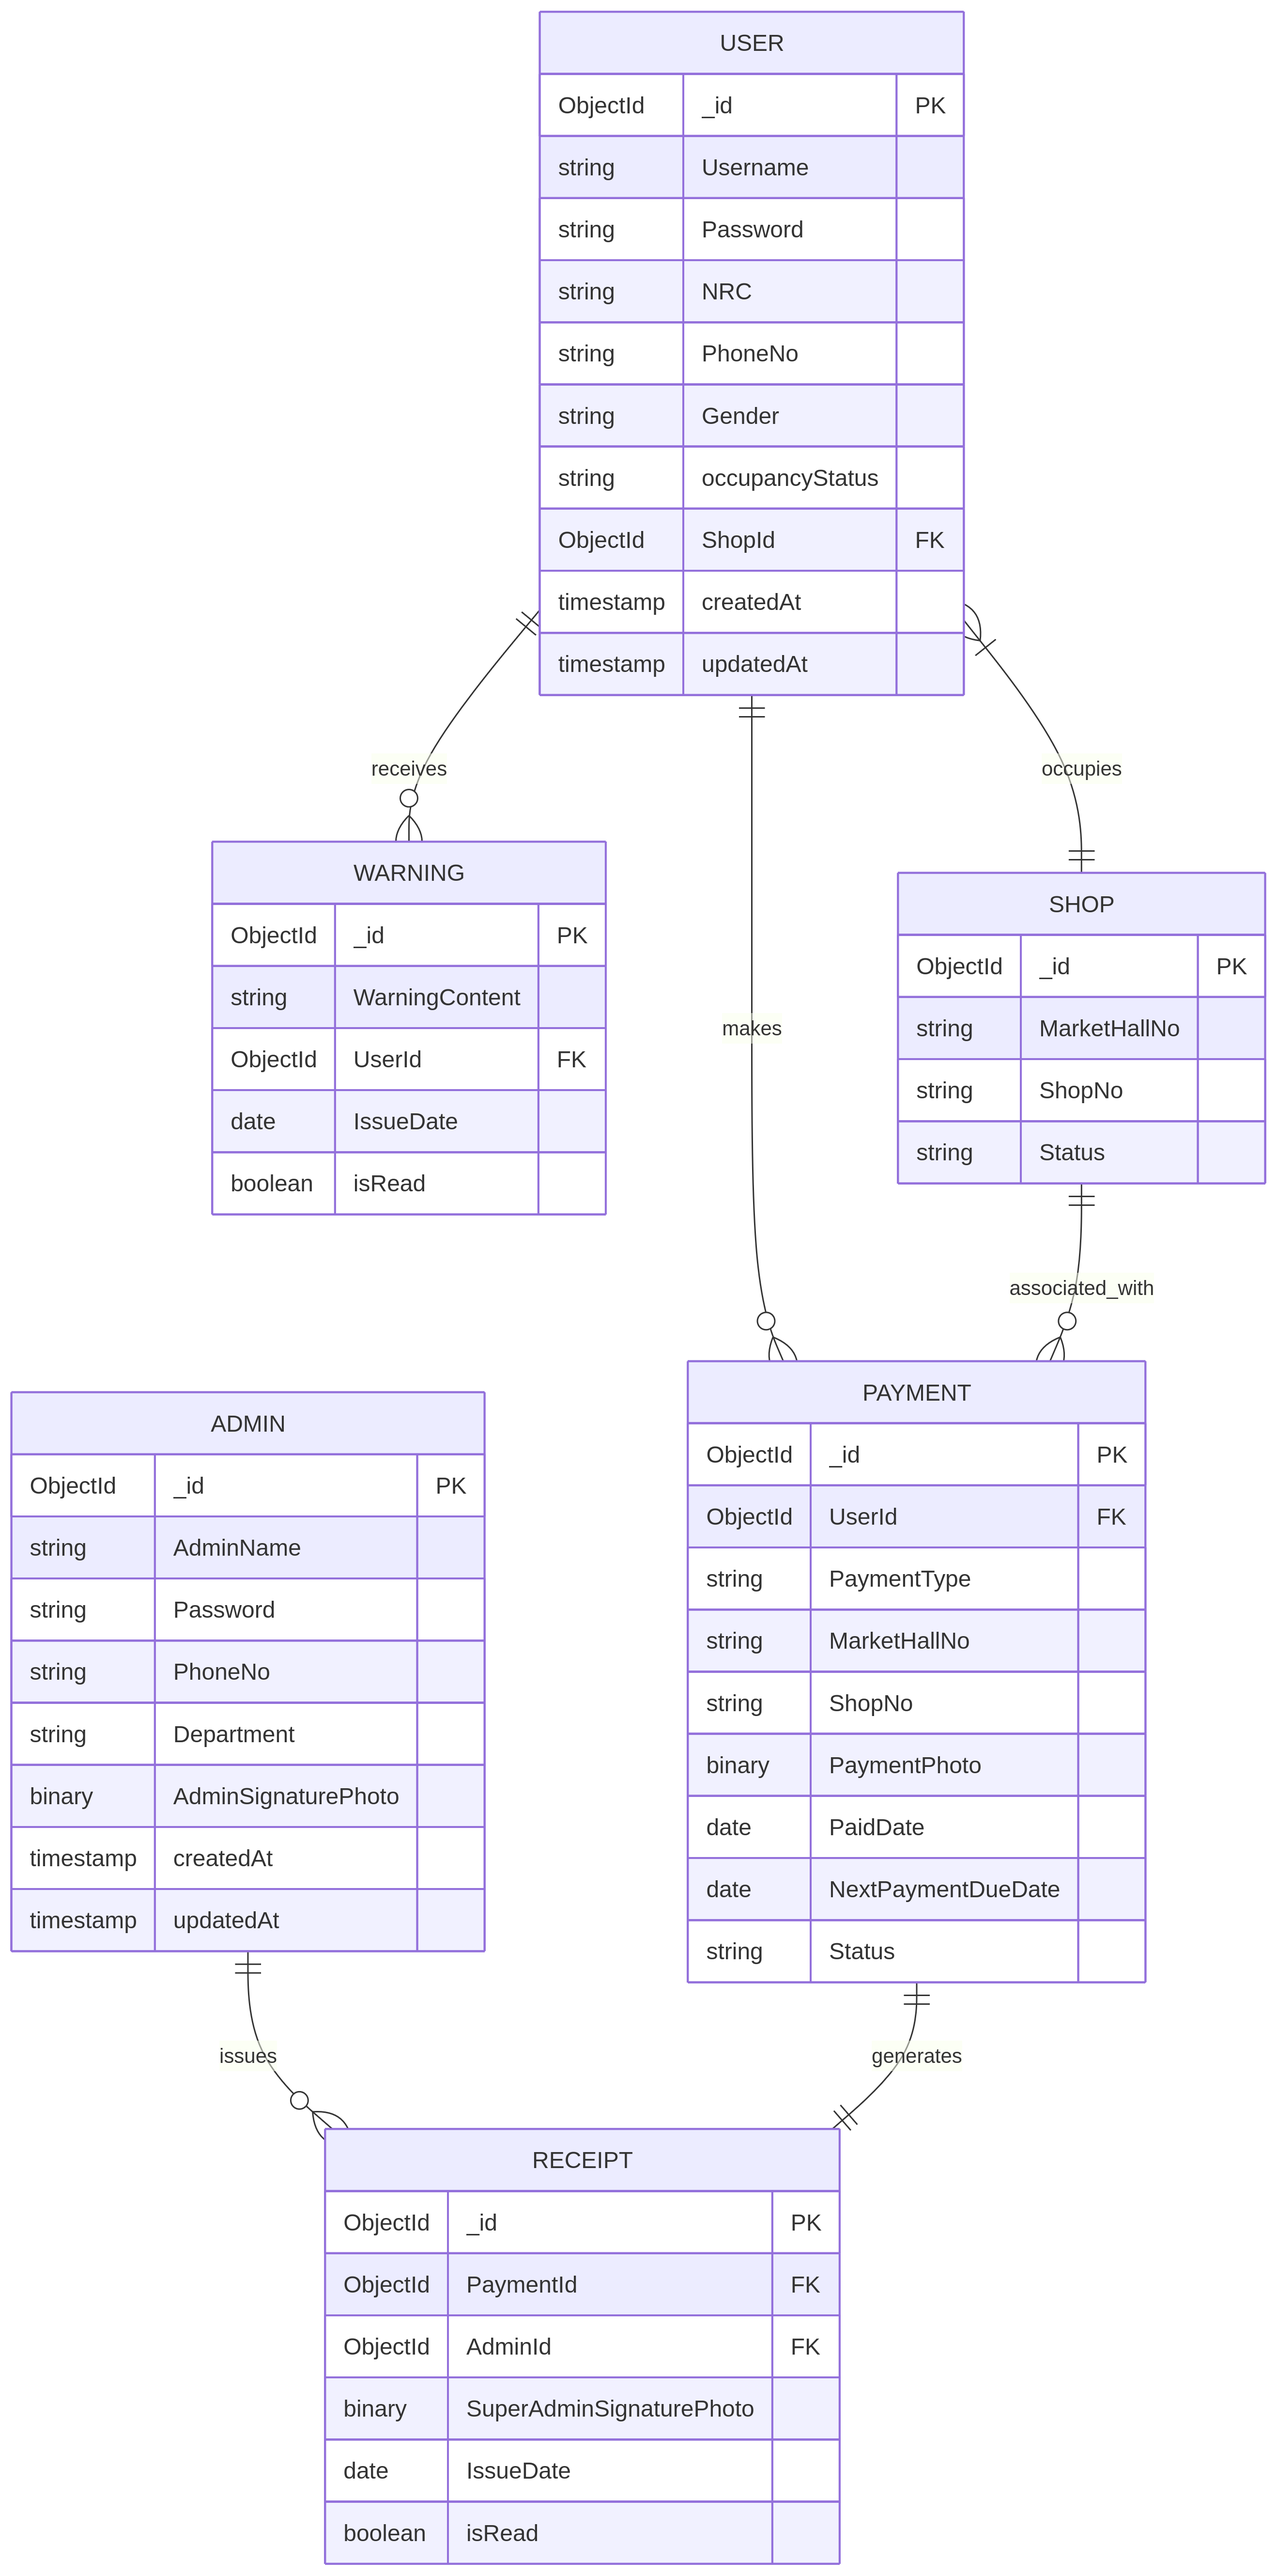
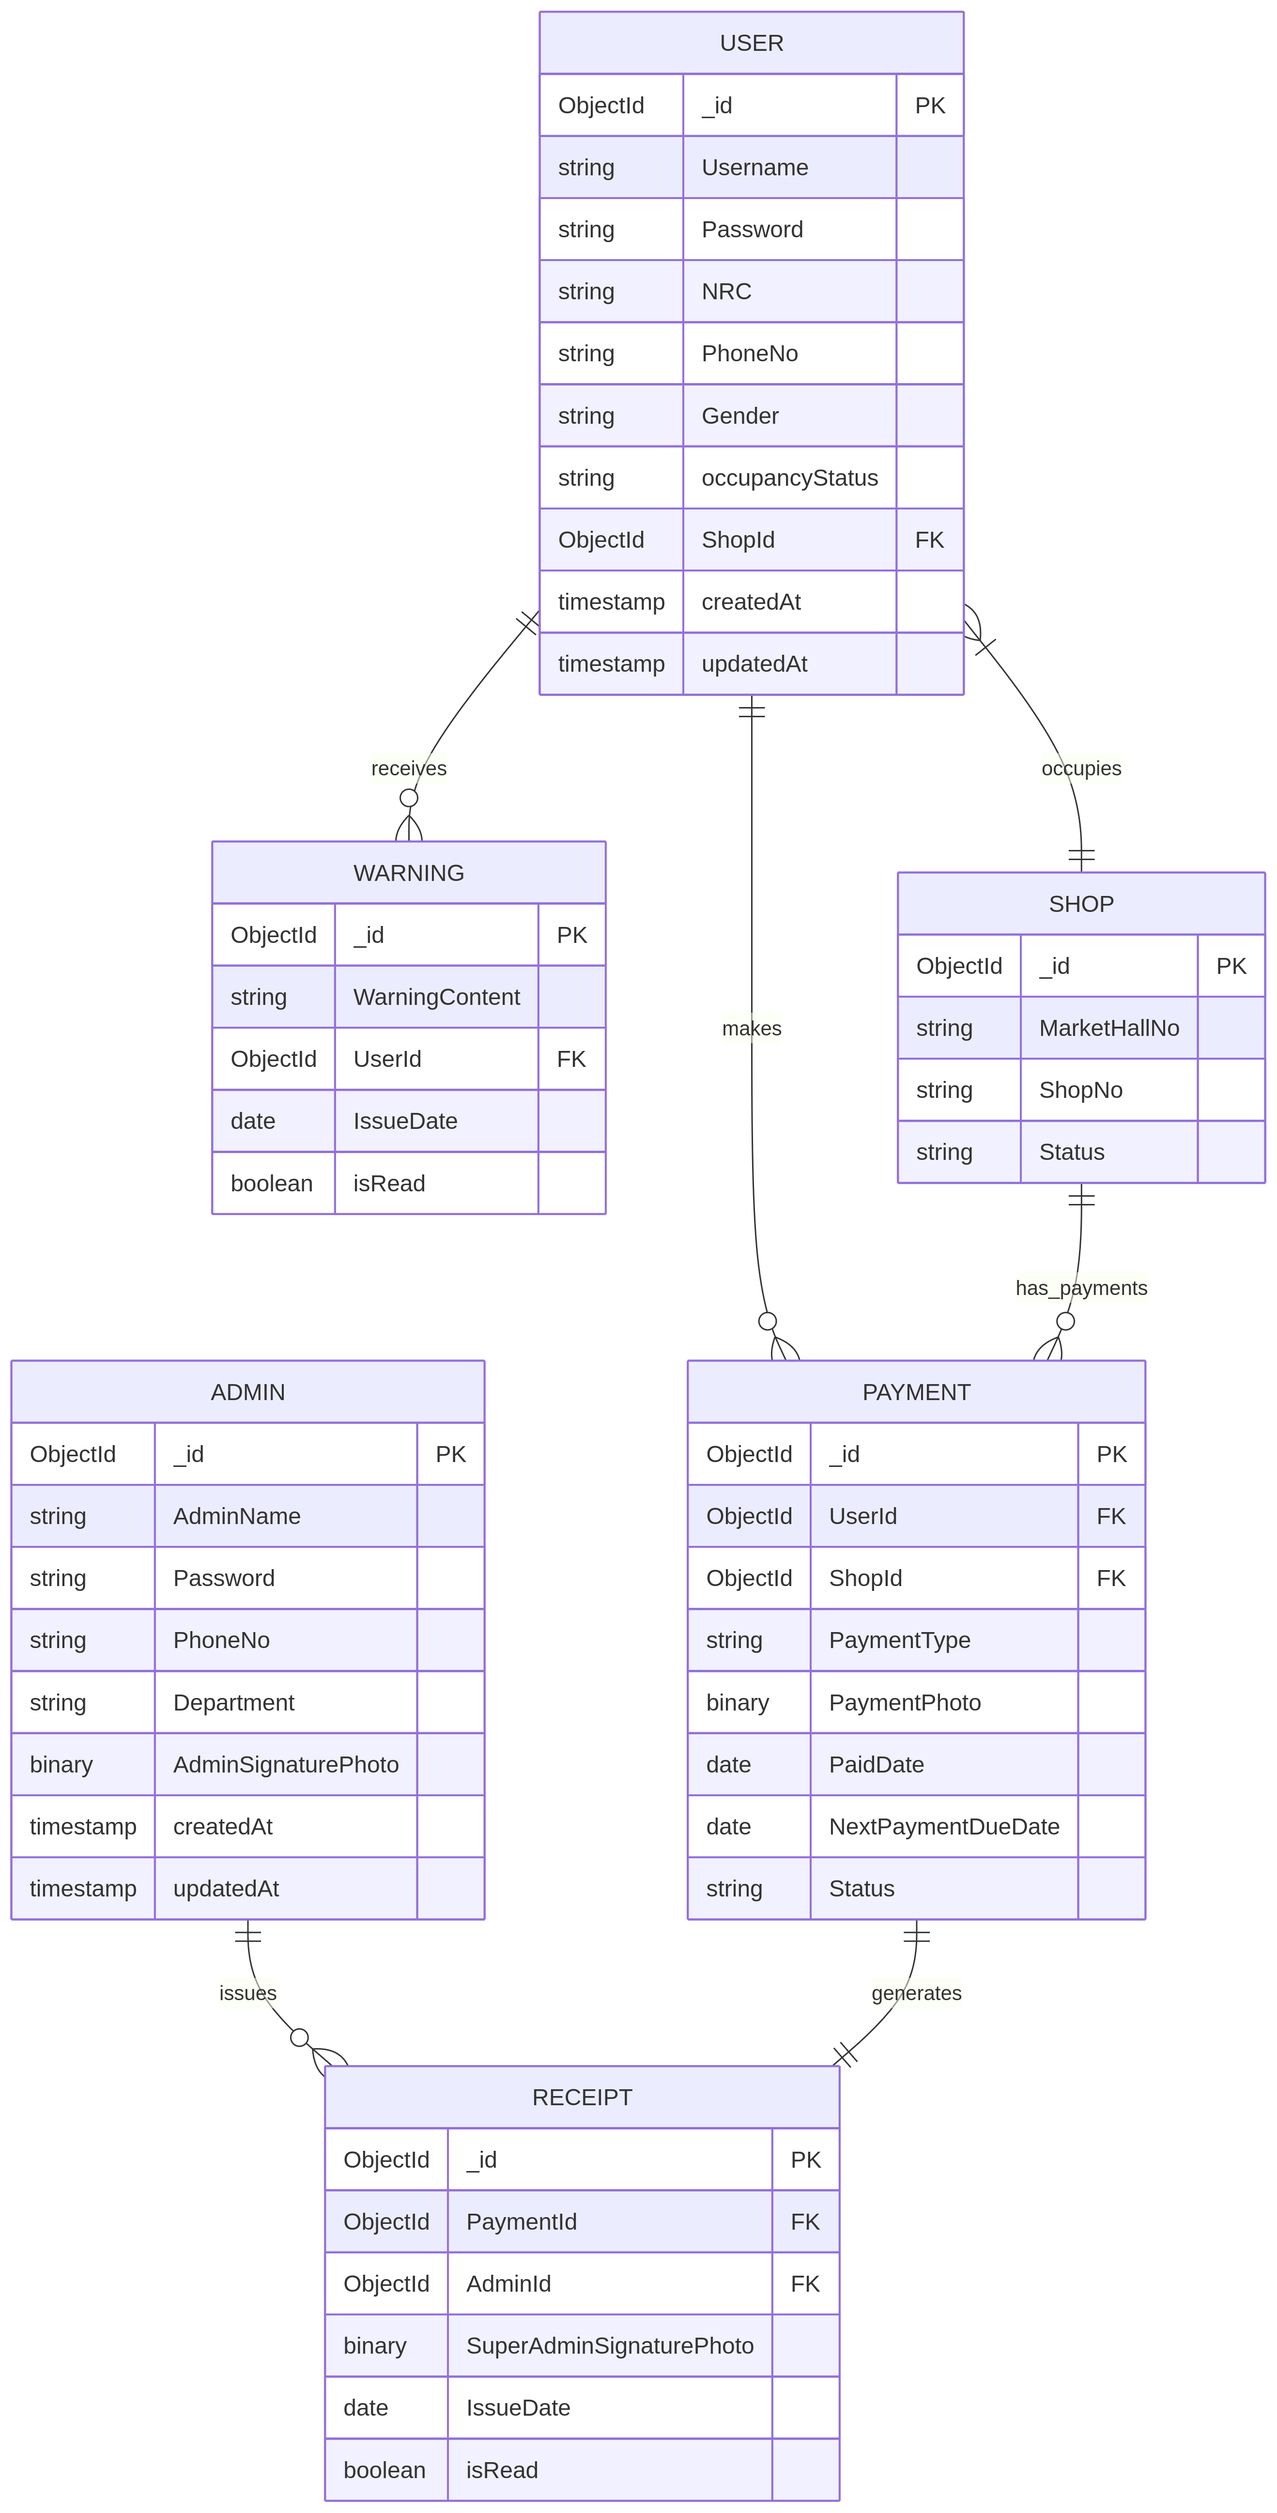
another changes

diff --git a/backend/models/payment.model.js b/backend/models/payment.model.js
@@ -7,15 +7,12 @@ const paymentSchema = new mongoose.Schema({
         ref: 'User', 
         required: true 
     },
+    shopId: { 
+        type: mongoose.Schema.Types.ObjectId, 
+        ref: 'Shop', 
+        required: true 
+    },
     paymentType: { 
-        type: String, 
-        required: true 
-    },
-    marketHallNo: { 
-        type: String, 
-        required: true 
-    },
-    shopNo: { 
         type: String, 
         required: true 
     },
